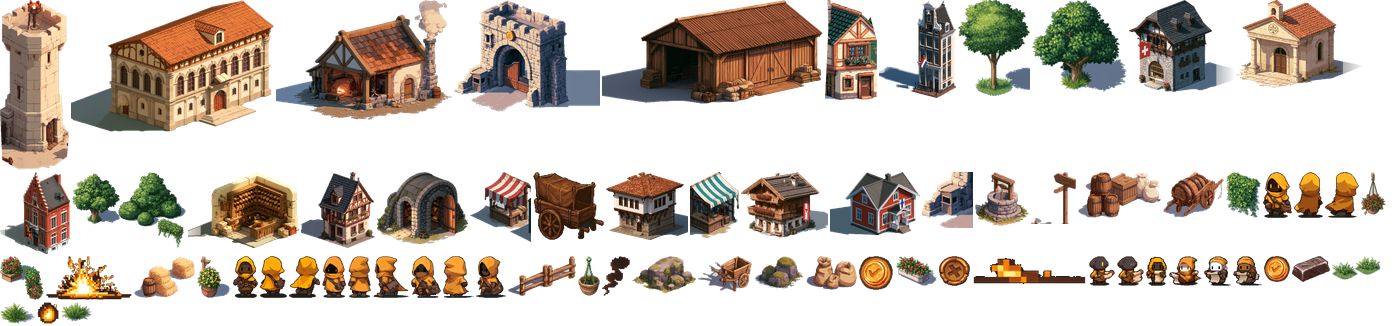
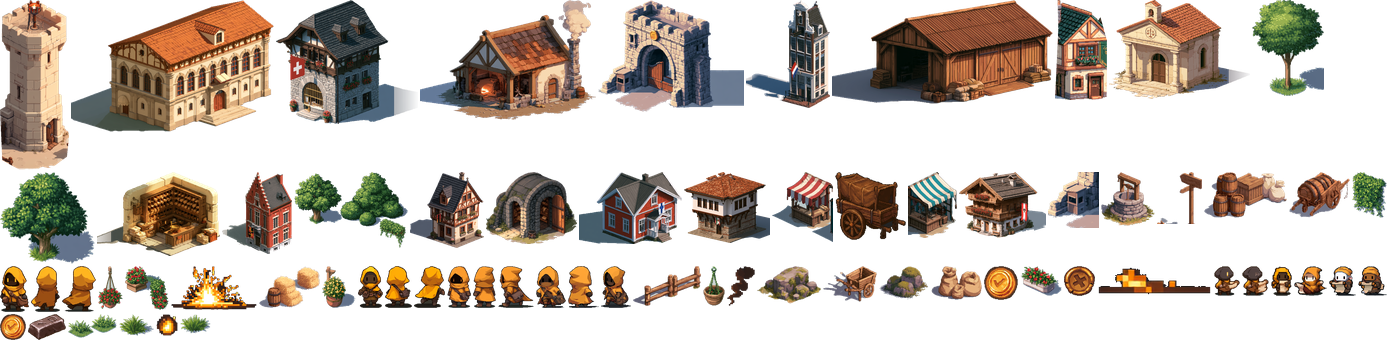
feat(live): door-scale pass, unglued top row, grass ground with paved streets
Three reports from the operator's annotated screenshot, all served:

1. The top-left unclogged: the two stalls breathe away from the gate
   (210/330), the library moves EAST onto the market square by the well —
   its old spot gets a tree, the villagers now mill around the well, the
   library courier run follows.

2. Proportions anchored on the DOORS (measured on a ruler sheet, hero as
   the yardstick): the hero towered at 40px over 30px monument doors and
   9-14px lane doors. Characters now draw at 0.75 (hero 30 ≈ the SNES
   door≈hero convention), the SIX chalet re-cuts to a real 27px door
   (h124), the courthouse to 32px (h99), the sorting office follows (h84),
   and the lane's smallest houses (BG, NL, FI) rise toward their
   neighbours so the six lane doors match each other. Overlaps are
   budgeted per joint — wide over blind walls, slim where a banner hangs.

3. The ground: grass everywhere, cobbles ONLY on the streets. The all-stone
   tiling read as noise however much the tile was flattened; a calm
   generated 192px grass tile (public/village/grass.png) now carries the
   map and the pale stone tile survives as street paving clipped to the
   road bands, with a soft dark seam. Walkable paths read at a glance.

Proofs: 927 tests green, tsc/eslint silent, headless idle + quest captures
reviewed (hero at the SIX door matches it, streets legible), no console
errors.

Claude-Session: https://claude.ai/code/session_01NtoUeNVrDU7ypMdARPhFeS

diff --git a/frontend/app/[locale]/live/world.ts b/frontend/app/[locale]/live/world.ts
@@ -24,6 +24,7 @@ export interface WorldImages {
   atlas: HTMLImageElement;
   meta: AtlasMeta;
   ground: HTMLImageElement;
+  grass: HTMLImageElement;
 }
 
 export async function loadWorldImages(base = '/village'): Promise<WorldImages> {
@@ -34,13 +35,14 @@ export async function loadWorldImages(base = '/village'): Promise<WorldImages> {
       img.onerror = reject;
       img.src = src;
     });
-  const [atlas, ground, metaRes] = await Promise.all([
+  const [atlas, ground, grass, metaRes] = await Promise.all([
     load(`${base}/atlas.png`),
     load(`${base}/ground.png`),
+    load(`${base}/grass.png`),
     fetch(`${base}/atlas.json`),
   ]);
   const meta = (await metaRes.json()) as AtlasMeta;
-  return { atlas, meta, ground };
+  return { atlas, meta, ground, grass };
 }
 
 /** Draw a sprite by name, anchored bottom-center at (cx, baseY). */
@@ -74,16 +76,17 @@ export function drawSprite(
 export const REGISTRY_CCS = ['DE', 'AT', 'BE', 'BG', 'NL', 'FI'] as const;
 /** The bespoke national houses (01/09 boards): Fachwerk DE, alpine chalet AT,
  * step-gabled BE, revival BG, canal house NL, red-ochre cottage FI. These
- * isometric cuts run wide, so the lane is a close shingle: ~16px overlaps,
- * with per-house bases ordered so no banner hides behind a neighbour (the
- * house with the bigger base draws in front). */
+ * isometric cuts run wide, so the lane is a close shingle. v7 door-scale
+ * pass: heights re-cut so the six DOORS match each other, and the overlaps
+ * are budgeted per joint (wide over blind walls, slim where a banner hangs)
+ * with bases ordered so no banner ever hides behind a neighbour. */
 const REGISTRY_LANE: { sprite: string; cx: number; w: number; h: number; base: number }[] = [
-  { sprite: 'reg-de', cx: 549, w: 74, h: 76, base: 334 },
-  { sprite: 'reg-at', cx: 614, w: 87, h: 66, base: 337 },
-  { sprite: 'reg-be', cx: 676, w: 70, h: 82, base: 334 },
-  { sprite: 'reg-bg', cx: 736, w: 82, h: 68, base: 334 },
-  { sprite: 'reg-nl', cx: 800, w: 77, h: 98, base: 337 },
-  { sprite: 'reg-fi', cx: 867, w: 90, h: 63, base: 339 },
+  { sprite: 'reg-de', cx: 573, w: 74, h: 76, base: 334 },
+  { sprite: 'reg-at', cx: 624, w: 87, h: 66, base: 338 },
+  { sprite: 'reg-be', cx: 694, w: 70, h: 82, base: 336 },
+  { sprite: 'reg-bg', cx: 742, w: 86, h: 71, base: 339 },
+  { sprite: 'reg-nl', cx: 797, w: 84, h: 108, base: 341 },
+  { sprite: 'reg-fi', cx: 860, w: 103, h: 72, base: 343 },
 ];
 
 export interface StationGeo {
@@ -111,19 +114,22 @@ function geo(
 
 export const STATIONS: StationGeo[] = [
   geo('gate', 'gate', 80, 182, 84, 116, [80, 200], [80, 192]),
-  geo('scribe', 'stall-red', 196, 180, 64, 74, [196, 200], [196, 192]),
-  geo('cutter', 'stall-teal', 306, 180, 62, 70, [306, 200], [306, 192]),
-  geo('library', 'library', 414, 176, 176, 126, [414, 200], [414, 192], { scale: 0.92 }),
+  // the stalls breathe: unglued from the gate, wider apart (operator, 01/09)
+  geo('scribe', 'stall-red', 210, 180, 64, 74, [210, 200], [210, 192]),
+  geo('cutter', 'stall-teal', 330, 180, 62, 70, [330, 200], [330, 192]),
+  // the library moved east onto the old market square, by the well
+  geo('library', 'library', 655, 176, 176, 126, [655, 200], [655, 192], { scale: 0.92 }),
   ...REGISTRY_LANE.map((h, i) =>
     geo(`reg-${REGISTRY_CCS[i]}`, h.sprite, h.cx, h.base, h.w, h.h,
       [h.cx, 350], [h.cx, 342], { cc: REGISTRY_CCS[i] }),
   ),
   geo('warehouse', 'warehouse', 84, 106, 132, 104, [120, 98], [120, 76]),
   // the three counters wear their bespoke boards too: sorting office with
-  // pigeonholes, columned courthouse, Swiss chalet with its painted flag
-  geo('classifier', 'classifier-b', 270, 334, 100, 76, [270, 352], [270, 342]),
-  geo('court', 'court-b', 366, 336, 118, 88, [366, 352], [366, 342]),
-  geo('six', 'six-b', 460, 338, 100, 92, [460, 352], [460, 342]),
+  // pigeonholes, columned courthouse, Swiss chalet with its painted flag —
+  // re-cut on the door scale (v7), the classifier pushed west to breathe
+  geo('classifier', 'classifier-b', 236, 334, 110, 84, [236, 352], [236, 342]),
+  geo('court', 'court-b', 358, 337, 128, 99, [358, 352], [358, 342]),
+  geo('six', 'six-b', 470, 340, 128, 124, [470, 352], [470, 342]),
   // the barrier sits ACROSS the bottom street: the hero passes through it
   geo('border', 'fence', 280, 506, 104, 46, [280, 498], [280, 498]),
   geo('tower', 'tower', 380, 496, 64, 140, [380, 504], [380, 498], { scale: 0.82 }),
@@ -160,35 +166,34 @@ const ROAD_BANDS: [number, number, number, number][] = [
  * in one painter's-order pass, so the scenery list below is drawn per frame. */
 
 export function paintGround(ctx: Ctx, img: WorldImages) {
-  // The tile is pre-flattened at build time (local stone-joint contrast
-  // halved, saturation down, wider 208px period): the operator's report was
-  // that the ground SHOUTED and confused the eye. The checkered 180° rotation
-  // is back on top of that — on the calmed tile it breaks the period without
-  // re-creating the old patchwork. Step follows the tile's real size.
-  const g = img.ground;
+  // v7 ground, the SNES idiom: calm grass everywhere, cobbles ONLY on the
+  // streets. The previous all-stone tiling read as noise however much the
+  // tile was flattened (« toujours un peu brouillon », operator 01/09); the
+  // pale stone tile survives as street paving clipped to the road bands, so
+  // the eye separates walkable paths from ground at a glance.
+  const g = img.grass;
   const T = g.width;
   for (let j = 0; j * T < H; j++) {
-    for (let i = 0; i * T < W; i++) {
-      if ((i + j) % 2 === 1) {
-        ctx.save();
-        ctx.translate(i * T + T / 2, j * T + T / 2);
-        ctx.rotate(Math.PI);
-        ctx.drawImage(g, -T / 2, -T / 2);
-        ctx.restore();
-      } else {
-        ctx.drawImage(g, i * T, j * T);
-      }
-    }
+    for (let i = 0; i * T < W; i++) ctx.drawImage(g, i * T, j * T);
   }
-  // worn-earth streets on the pale cobbles (daylight)
+  const s = img.ground;
+  const S = s.width;
+  ctx.save();
+  ctx.beginPath();
+  for (const [x, y, w, h] of ROAD_BANDS) ctx.rect(x, y, w, h);
+  ctx.clip();
+  for (let j = 0; j * S < H; j++) {
+    for (let i = 0; i * S < W; i++) ctx.drawImage(s, i * S, j * S);
+  }
+  ctx.restore();
+  // a soft dark seam so the paving sits IN the grass instead of on it
+  ctx.fillStyle = 'rgba(96,84,52,0.20)';
   for (const [x, y, w, h] of ROAD_BANDS) {
-    ctx.fillStyle = 'rgba(134,104,72,0.28)';
-    ctx.fillRect(x, y, w, h);
-    ctx.fillStyle = 'rgba(96,74,50,0.18)';
     ctx.fillRect(x, y, w, 2);
     ctx.fillRect(x, y + h - 2, w, 2);
+    ctx.fillRect(x, y, 2, h);
+    ctx.fillRect(x + w - 2, y, 2, h);
   }
-
 }
 
 /** Fixed scenery, merged with actors each frame and sorted by base line. */
@@ -201,18 +206,18 @@ export const SCENERY: Placed[] = [
   { sprite: 'cart', cx: 172, base: 96 },        // parked caravan cart
   // greenery
   { sprite: 'tree1', cx: 34, base: 152 }, { sprite: 'tree2', cx: 790, base: 486 },
-  { sprite: 'tree1', cx: 62, base: 394 }, { sprite: 'tree1', cx: 806, base: 162 },
+  { sprite: 'tree1', cx: 62, base: 394 }, { sprite: 'tree1', cx: 430, base: 158 },
   { sprite: 'tree2', cx: 938, base: 246 }, { sprite: 'tree1', cx: 386, base: 88 },
   { sprite: 'planter-red', cx: 502, base: 184 }, { sprite: 'topiary', cx: 262, base: 194 },
-  { sprite: 'pot-yellow', cx: 148, base: 200 }, { sprite: 'ivy', cx: 366, base: 178 },
+  { sprite: 'pot-yellow', cx: 148, base: 200 }, { sprite: 'ivy', cx: 605, base: 178 },
   { sprite: 'tuft1', cx: 150, base: 258 }, { sprite: 'tuft2', cx: 505, base: 395 },
   { sprite: 'tufts2', cx: 600, base: 440 }, { sprite: 'tuft1', cx: 60, base: 302 },
   { sprite: 'tuft2', cx: 866, base: 384 }, { sprite: 'tufts2', cx: 340, base: 442 },
-  // the market square — the registry lane's old ground, kept alive: grove,
-  // well, planters and hand tools between the caravan road and the top street
-  { sprite: 'grove', cx: 585, base: 165 }, { sprite: 'well', cx: 700, base: 170 },
-  { sprite: 'planter2', cx: 652, base: 178 }, { sprite: 'wheelbarrow', cx: 748, base: 178 },
-  { sprite: 'fence', cx: 852, base: 150 }, { sprite: 'rocks', cx: 120, base: 300 },
+  // the market corner slid east when the library claimed the square's centre
+  // (operator's arrow, 01/09): well and tools now cluster right of it
+  { sprite: 'grove', cx: 500, base: 164 }, { sprite: 'well', cx: 805, base: 174 },
+  { sprite: 'planter2', cx: 745, base: 180 }, { sprite: 'wheelbarrow', cx: 862, base: 176 },
+  { sprite: 'fence', cx: 905, base: 148 }, { sprite: 'rocks', cx: 120, base: 300 },
   // village life props on the bottom street
   { sprite: 'barrel-group', cx: 712, base: 470 }, { sprite: 'sacks', cx: 214, base: 90 },
   { sprite: 'barrel-cart', cx: 438, base: 478 },
@@ -245,6 +250,11 @@ export interface Actor {
   moving?: boolean; hidden?: boolean;
 }
 
+/** Characters draw at 0.75: measured against the boards' doors the old size
+ * towered over every doorway; at 30px the hero matches the SNES convention
+ * (door ≈ hero) and the buildings regain their standing. */
+export const ACTOR_SCALE = 0.75;
+
 export function drawActor(ctx: Ctx, img: WorldImages, a: Actor, t: number, reduced: boolean) {
   if (a.hidden) return;
   const bob = reduced ? 0 : a.moving ? (Math.floor(t / 130) % 2) : (Math.floor(t / 900) % 2) * 0.5;
@@ -261,12 +271,13 @@ export function drawActor(ctx: Ctx, img: WorldImages, a: Actor, t: number, reduc
   ctx.globalAlpha = 0.25;
   ctx.fillStyle = '#0A0A12';
   ctx.beginPath();
-  ctx.ellipse(a.x, a.y + 1.5, 9, 3, 0, 0, Math.PI * 2);
+  ctx.ellipse(a.x, a.y + 1.5, 7, 2.4, 0, 0, Math.PI * 2);
   ctx.fill();
   ctx.restore();
   drawSprite(ctx, img, name, a.x, a.y, {
     flip: (a.face ?? 'down') === 'side' && a.dir < 0,
     dy: -bob,
+    scale: ACTOR_SCALE,
   });
 }
 

diff --git a/frontend/app/[locale]/live/village-canvas.tsx b/frontend/app/[locale]/live/village-canvas.tsx
@@ -63,7 +63,7 @@ interface Props {
 const COURIER_KINDS = ["cour-a", "cour-b", "cour-c"] as const
 const COURIER_RUNS: Record<TrafficCourier["kind"], [number, number][]> = {
   full: [[-28, 192], [932, 192], [932, 342], [202, 342], [202, 498], [952, 498], [998, 498]],
-  library: [[-28, 192], [430, 192], [-36, 192]],
+  library: [[-28, 192], [655, 192], [-36, 192]],
   fail: [[-28, 192], [200, 192], [-36, 192]],
 }
 const HERO_SPEED = 156
@@ -74,11 +74,11 @@ const COURIER_SPEED = 220
  * stations sit on their street's lower half so the courier line at y=192
  * stays mostly clear. */
 const LABEL_AT: Record<string, [number, number]> = {
-  gate: [80, 203], scribe: [196, 203], cutter: [306, 203], library: [414, 203],
-  "reg-DE": [549, 346], "reg-AT": [614, 361], "reg-BE": [676, 346],
-  "reg-BG": [736, 361], "reg-NL": [800, 346], "reg-FI": [867, 361],
+  gate: [80, 203], scribe: [210, 203], cutter: [330, 203], library: [655, 203],
+  "reg-DE": [573, 346], "reg-AT": [624, 361], "reg-BE": [694, 346],
+  "reg-BG": [742, 361], "reg-NL": [797, 346], "reg-FI": [860, 361],
   // the three counters stagger like the lane: their long names collide flat
-  classifier: [270, 346], court: [366, 362], six: [460, 346],
+  classifier: [236, 346], court: [358, 362], six: [470, 346],
   warehouse: [160, 56], tower: [380, 517], forge: [560, 518],
   archive: [140, 516], border: [280, 518], vigil: [906, 510],
 }
@@ -103,10 +103,10 @@ export function VillageCanvas({ labels, laneLabel, tips, heroTip, villagerTip, i
     groundLayer: null as HTMLCanvasElement | null,
     vignetteLayer: null as HTMLCanvasElement | null,
     hero: { x: -30, y: 192, dir: 1, kind: "hero", face: "side", hidden: true } as Actor,
-    // the villagers mill about the market square (the registry lane's old
-    // ground): north of the top street, out of every pipeline lane
+    // the villagers mill about the well-side market corner, east of the
+    // library: north of the top street, out of every pipeline lane
     clerks: [0, 1, 2, 3, 4].map((i) => ({
-      x: 560 + i * 62, y: 116 + (i % 3) * 22, dir: 1 as const,
+      x: 756 + i * 34, y: 114 + (i % 3) * 20, dir: 1 as const,
       kind: `clerk${i}` as Actor["kind"],
       wt: i * 1.9, tx: undefined as number | undefined, ty: undefined as number | undefined,
     })),
@@ -156,7 +156,7 @@ export function VillageCanvas({ labels, laneLabel, tips, heroTip, villagerTip, i
         w.pollen = Array.from({ length: 16 }, () => ({
           x: Math.random() * W, y: Math.random() * H, p: Math.random() * 7, s: 0.6 + Math.random() * 0.8,
         }))
-        const BLOOMS: [number, number][] = [[502, 176], [652, 170], [148, 192], [860, 492]]
+        const BLOOMS: [number, number][] = [[502, 176], [745, 172], [148, 192], [860, 492]]
         w.wings = BLOOMS.slice(0, 4).map(([bx, by], i) => ({
           cx: bx, cy: by - 12, p: i * 1.7, c: ["#F472B6", "#FBBF24", "#93C5FD", "#F9A8D4"][i],
         }))
@@ -188,7 +188,7 @@ export function VillageCanvas({ labels, laneLabel, tips, heroTip, villagerTip, i
       if (!w.reduced) {
         for (const c of w.clerks) {
           c.wt -= dt / 1000
-          if (c.wt <= 0) { c.wt = 2.5 + Math.random() * 4; c.tx = 540 + Math.random() * 340; c.ty = 104 + Math.random() * 66 }
+          if (c.wt <= 0) { c.wt = 2.5 + Math.random() * 4; c.tx = 742 + Math.random() * 160; c.ty = 106 + Math.random() * 62 }
           const a = c as unknown as Actor
           if (c.tx !== undefined && c.ty !== undefined) {
             const dx = c.tx - c.x, dy = c.ty - c.y, d = Math.hypot(dx, dy)
@@ -639,7 +639,8 @@ export function VillageCanvas({ labels, laneLabel, tips, heroTip, villagerTip, i
     const w = world.current
     let found: StationTip | null = null
     let station: string | null = null
-    const near = (a: Actor) => !a.hidden && Math.abs(mx - a.x) < 14 && Math.abs(my - (a.y - 20)) < 26
+    // actors draw at 0.75 now — the hover box shrinks with them
+    const near = (a: Actor) => !a.hidden && Math.abs(mx - a.x) < 11 && Math.abs(my - (a.y - 15)) < 20
     const courier = w.couriers.find((cr) => near(cr.actor))
     if (courier) found = courier.tip
     else if (near(w.hero)) found = heroTip
@@ -710,7 +711,7 @@ export function VillageCanvas({ labels, laneLabel, tips, heroTip, villagerTip, i
             })}
             <span
               className="absolute rounded-md border px-2 py-0.5 text-[10.5px] font-bold uppercase tracking-wider"
-              style={{ left: `${(712 / W) * 100}%`, top: `${(226 / H) * 100}%`, transform: "translateX(-50%)",
+              style={{ left: `${(724 / W) * 100}%`, top: `${(220 / H) * 100}%`, transform: "translateX(-50%)",
                 background: "rgba(255,247,228,0.9)", borderColor: "#8A5A28", color: "#6B4A18" }}
             >
               {laneLabel}
